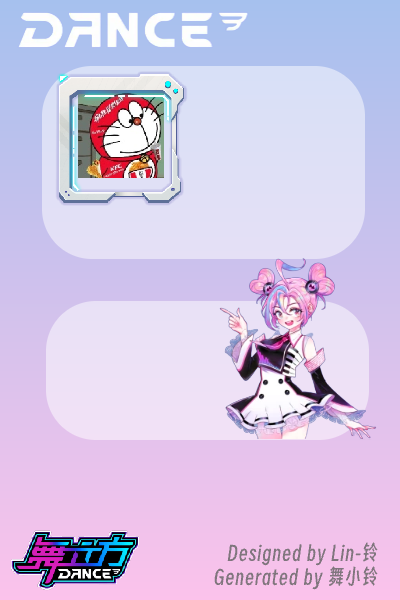
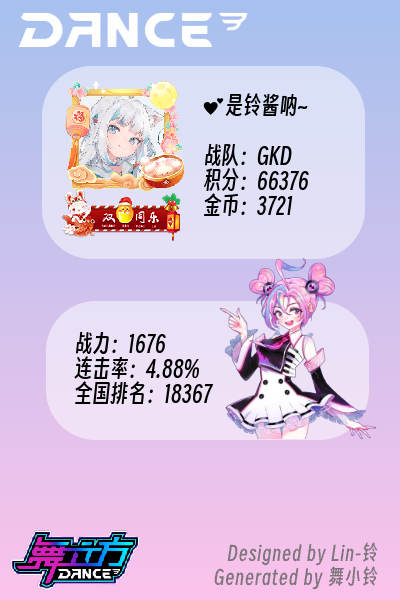
updated...

diff --git a/src/main/java/com/dancecube/api/UserInfo.java b/src/main/java/com/dancecube/api/UserInfo.java
@@ -4,6 +4,7 @@ import com.dancecube.token.Token;
 import com.google.gson.JsonObject;
 import com.google.gson.JsonParser;
 import com.mirai.HttpUtils;
+import okhttp3.Call;
 import okhttp3.Response;
 
 import java.io.IOException;
@@ -13,6 +14,7 @@ public class UserInfo {
     private final int userID; //用户ID
     private final int gold; //金币
     private final int musicScore; //积分
+    private final int lvRatio; //战力
     private final int rankNation; //全国排名
     private final int comboPercent; //连击率（518为5.18%）
     private final int sex; //性别（1男 2女）
@@ -20,7 +22,7 @@ public class UserInfo {
     private final String headimgURL; //头像URL
     private final String phone; //手机号
     private final String cityName; //城市名
-    private final String teamName;
+    private final String teamName; //战队名
     private final String titleUrl; //头衔
     private final String headimgBoxPath; //头像框
 
@@ -31,6 +33,11 @@ public class UserInfo {
     public int getUserID() {
         return userID;
     }
+
+    public int getLvRatio() {
+        return lvRatio;
+    }
+
 
     public String getHeadimgURL() {
         return headimgURL;
@@ -91,19 +98,25 @@ public class UserInfo {
     public UserInfo(Token token) {
         String userInfoJson = "";
         String userAccountInfoJson = "";
-        try(Response response = HttpUtils.httpApi("https://dancedemo.shenghuayule.com/Dance/api/User/GetInfo?userId=" + token.getUserId(), Map.of("Authorization", "Bearer " + token.getAccessToken()))) {
-            if(response!=null && response.body()!=null)
-                userInfoJson = response.body().string();
+        Response response2 = null;
+        Response response1 = null;
+        Call call1 = HttpUtils.httpApiCall("https://dancedemo.shenghuayule.com/Dance/api/User/GetInfo?userId=" + token.getUserId(), Map.of("Authorization", "Bearer " + token.getAccessToken()));
+        Call call2 = HttpUtils.httpApiCall("https://dancedemo.shenghuayule.com/Dance/api/User/GetAccountInfo?userId=" + token.getUserId(), Map.of("Authorization", "Bearer " + token.getAccessToken()));
+        try {
+            response1 = call1.execute();
+            response2 = call2.execute();
+            if(response1.body()!=null && response2.body()!=null) {
+                userInfoJson = response1.body().string();
+                userAccountInfoJson = response2.body().string();
+            }
         } catch(IOException e) {
             e.printStackTrace();
+        } finally {
+            if(response1!=null && response2!=null) {
+                response1.close();
+                response2.close();
+            }
         }
-        try(Response response = HttpUtils.httpApi("https://dancedemo.shenghuayule.com/Dance/api/User/GetAccountInfo?userId=" + token.getUserId(), Map.of("Authorization", "Bearer " + token.getAccessToken()))) {
-            if(response!=null && response.body()!=null)
-                userAccountInfoJson = response.body().string();
-        } catch(IOException e) {
-            e.printStackTrace();
-        }
-
         JsonObject jsonObject1 = JsonParser.parseString(userInfoJson).getAsJsonObject();
         JsonObject jsonObject2 = JsonParser.parseString(userAccountInfoJson).getAsJsonObject();
 
@@ -112,6 +125,7 @@ public class UserInfo {
         this.userName = jsonObject1.get("UserName").getAsString();
         this.sex = jsonObject1.get("Sex").getAsInt();
         this.phone = jsonObject1.get("Phone").getAsString();
+        this.lvRatio = jsonObject1.get("LvRatio").getAsInt();
         this.cityName = jsonObject1.get("CityName").getAsString();
         this.musicScore = jsonObject1.get("MusicScore").getAsInt();
         this.rankNation = jsonObject1.get("RankNation").getAsInt();
@@ -124,20 +138,6 @@ public class UserInfo {
 
     @Override
     public String toString() {
-        return "UserInfo{" +
-                "userID=" + userID +
-                ", headimgURL='" + headimgURL + '\'' +
-                ", userName='" + userName + '\'' +
-                ", sex=" + sex +
-                ", phone='" + phone + '\'' +
-                ", cityName='" + cityName + '\'' +
-                ", musicScore=" + musicScore +
-                ", rankNation=" + rankNation +
-                ", comboPercent=" + comboPercent +
-                ", teamName='" + teamName + '\'' +
-                ", titleUrl='" + titleUrl + '\'' +
-                ", headimgBoxPath='" + headimgBoxPath + '\'' +
-                ", gold='" + gold + '\'' +
-                '}';
+        return "UserInfo{" + "userID=" + userID + ", headimgURL='" + headimgURL + '\'' + ", userName='" + userName + '\'' + ", sex=" + sex + ", phone='" + phone + '\'' + ", cityName='" + cityName + '\'' + ", musicScore=" + musicScore + ", rankNation=" + rankNation + ", comboPercent=" + comboPercent + ", teamName='" + teamName + '\'' + ", titleUrl='" + titleUrl + '\'' + ", headimgBoxPath='" + headimgBoxPath + '\'' + ", gold='" + gold + '\'' + '}';
     }
 }

diff --git a/src/main/java/com/dancecube/image/userInfoImage.java b/src/main/java/com/dancecube/image/userInfoImage.java
@@ -5,37 +5,68 @@ import com.dancecube.api.UserInfo;
 import com.dancecube.token.Token;
 import com.dancecube.token.TokenBuilder;
 import com.freewayso.image.combiner.ImageCombiner;
+import com.freewayso.image.combiner.enums.LineAlign;
 import com.freewayso.image.combiner.enums.OutputFormat;
 import com.freewayso.image.combiner.enums.ZoomMode;
 import com.mirai.event.AbstractHandler;
 
+import java.awt.*;
 import java.util.HashMap;
 
 public class userInfoImage extends AbstractHandler {
-    public static void main(String[] args) {
+    public static void main(String[] args) throws Exception {
         String filePath = windowsConfigPath + "UserToken.json";
         HashMap<Long, Token> map = TokenBuilder.tokensFromFile(filePath, false);
-        UserInfo user = new UserInfo(map.get(2404576981L));
+        UserInfo user = new UserInfo(map.get(2862125721L));
         System.out.println(user);
         String bgPath = "file:/C:\\Users\\周洁\\IdeaProjects\\DanceCubeBot\\DcConfig\\Images\\Background.png";
         String outputPath = "C:\\Users\\周洁\\IdeaProjects\\DanceCubeBot\\DcConfig\\Images\\test.png";
+
+        dcImg(user, bgPath, outputPath);
+//        breakLineSplitterTest(outputPath);
+
+    }
+
+    private static void dcImg(UserInfo user, String bgPath, String outputPath) {
         try {
             ImageCombiner combiner = new ImageCombiner(bgPath, OutputFormat.PNG);
 
 //            combiner.addImageElement(bgPath,0,0);
             combiner.addImageElement(user.getHeadimgURL(), 78, 92).setWidth(86).setHeight(86).setZoomMode(ZoomMode.WidthHeight);
             combiner.addImageElement(user.getHeadimgBoxPath(), 49, 66).setWidth(145).setHeight(145).setZoomMode(ZoomMode.WidthHeight);
-//            combiner.addImageElement(user.getTitleUrl(), 61, 190).setWidth(121).setHeight(52).setZoomMode(ZoomMode.WidthHeight);
-//            combiner.addTextElement("?！！?", 100, 0, 0);
-            combiner.combine();
+            if(!user.getTitleUrl().equals(""))
+                combiner.addImageElement(user.getTitleUrl(), 61, 190).setWidth(121).setHeight(52).setZoomMode(ZoomMode.WidthHeight);
+            combiner.addTextElement("%s\n\n战队：%s\n积分：%d\n金币：%d"
+                                    .formatted(user.getUserName(), user.getTeamName(), user.getMusicScore(), user.getGold()),
+                            "得意黑", 23, 203, 93).setBreakLineSplitter("\n")
+                    .setAutoBreakLine(168, 10, 25, LineAlign.Left);
+            combiner.addTextElement("战力：%s\n连击率：%.2f%%\n全国排名：%d"
+                                    .formatted(user.getLvRatio(), (float) user.getComboPercent() / 100, user.getRankNation()),
+                            "得意黑", 23, 74, 331).setBreakLineSplitter("\n")
+                    .setAutoBreakLine(168, 10, 25, LineAlign.Left);
+
+            combiner.combine(); //换行
             combiner.save2(outputPath);
             System.out.println("succeeded");
         } catch(Exception e) {
             e.printStackTrace();
         }
     }
-}
 
+    public static void breakLineSplitterTest(String outputPath) throws Exception {
+        ImageCombiner combiner = new ImageCombiner("https://img.thebeastshop.com/combine_image/funny_topic/resource/bg_3x4.png", OutputFormat.JPG);
+        Font font = new Font("阿里巴巴普惠体", Font.PLAIN, 62);
+
+        //添加文字，并设置换行参数
+        combiner.addTextElement("大江东去，浪淘尽，\r\n千古风流人物。\r\n故垒西边，\r\n人道是：三国周郎赤壁。\r\n乱石穿空，惊涛拍岸，卷起千堆雪。\r\n江山如画，\r\n一时多少豪杰。", font, 100, 0)
+                .setColor(Color.red)
+                .setCenter(true).setBreakLineSplitter("\r\n");                                                              //手动指定换行符setBreakLineSplitter（支持正则，会忽略自动宽度计算，方便多行文本绘制）
+        //合成图片
+        combiner.combine();
+        combiner.save2(outputPath);
+
+    }
+}
 
 enum Style {
     DEFAULT,

diff --git a/src/main/java/com/mirai/Main.java b/src/main/java/com/mirai/Main.java
@@ -1,29 +1,32 @@
 package com.mirai;
 
 
-import com.dancecube.api.Machine;
 import com.mirai.event.AbstractHandler;
 
+import java.awt.*;
 import java.io.IOException;
 
 public class Main extends AbstractHandler {
     public static String url = "https://i.328888.xyz/2023/02/15/mNsWx.png";
 
-    public static void main(String[] args) throws IOException {
+    public static void main(String[] args) throws IOException, InterruptedException {
         String path = windowsConfigPath + "UserToken.json";
 //        userTokensMap = TokenBuilder.tokensFromFile(path);
 //        Token token1 = userTokensMap.get(2862125721L);
 //        UserInfo userInfo = new UserInfo(token1);
 //        System.out.println(userInfo);
-
-        try {
-            System.out.println(Machine.getMachineList("安徽大学"));
-        } catch(Exception e) {
-            e.printStackTrace();
-        }
+//
+        showFonts();
 
     }
 
+    public static void showFonts() throws InterruptedException {
+        GraphicsEnvironment e = GraphicsEnvironment.getLocalGraphicsEnvironment();
+        String[] fontName = e.getAvailableFontFamilyNames();
+        for(String s : fontName) {
+            System.out.println(s);
+        }
+    }
 
 }
 

diff --git a/src/main/java/com/mirai/HttpUtils.java b/src/main/java/com/mirai/HttpUtils.java
@@ -192,7 +192,7 @@ public final class HttpUtils {
         return null;
     }
 
-    public static Call httpApiCall(String url, Map<String, String> headerMap, Map<String, String> bodyMap) {
+    public static Call httpApiCall(String url, Map<String, String> headersMap, Map<String, String> bodyMap) {
 
         StringBuilder bodySb = new StringBuilder();
         bodyMap.forEach((k, v) -> bodySb.append('&').append(k).append('=').append(v));
@@ -205,9 +205,17 @@ public final class HttpUtils {
         Request.Builder post = new Request.Builder()
                 .url(url)
                 .post(requestBody);
-        if(headerMap!=null) headerMap.forEach(post::addHeader);
+        if(headersMap!=null) headersMap.forEach(post::addHeader);
         Request request = post.build();
 
+        return client.newCall(request);
+    }
+
+    public static Call httpApiCall(String url, Map<String, String> headersMap) {
+        OkHttpClient client = new OkHttpClient();
+        Request.Builder post = new Request.Builder().url(url).get();
+        headersMap.forEach(post::addHeader);
+        Request request = post.build();
         return client.newCall(request);
     }
 

diff --git a/src/main/java/com/mirai/MiraiBot.java b/src/main/java/com/mirai/MiraiBot.java
@@ -25,7 +25,7 @@ public final class MiraiBot extends JavaPlugin {
     @Override
     public void onEnable() {
         getLogger().info("Plugin loaded!");
-        EventChannel<Event> channel = GlobalEventChannel.INSTANCE.context(this.getCoroutineContext());
+        EventChannel<Event> channel = GlobalEventChannel.INSTANCE.parentScope(MiraiBot.INSTANCE).context(this.getCoroutineContext());
 
         //定时器
         refreshTokensTimer();

diff --git a/src/main/java/com/mirai/event/MainHandler.java b/src/main/java/com/mirai/event/MainHandler.java
@@ -97,7 +97,7 @@ public class MainHandler extends AbstractHandler {
     // 添加指令 全局
     public static void addCmd(Contact contact, long qq, String newPrefix) {
         userInfoCommand.put(qq, newPrefix);
-        contact.sendMessage("已添加 " + newPrefix + " !");
+        contact.sendMessage("已添加 \"" + newPrefix + "\" !");
     }
 
     // 删除指令 全局
